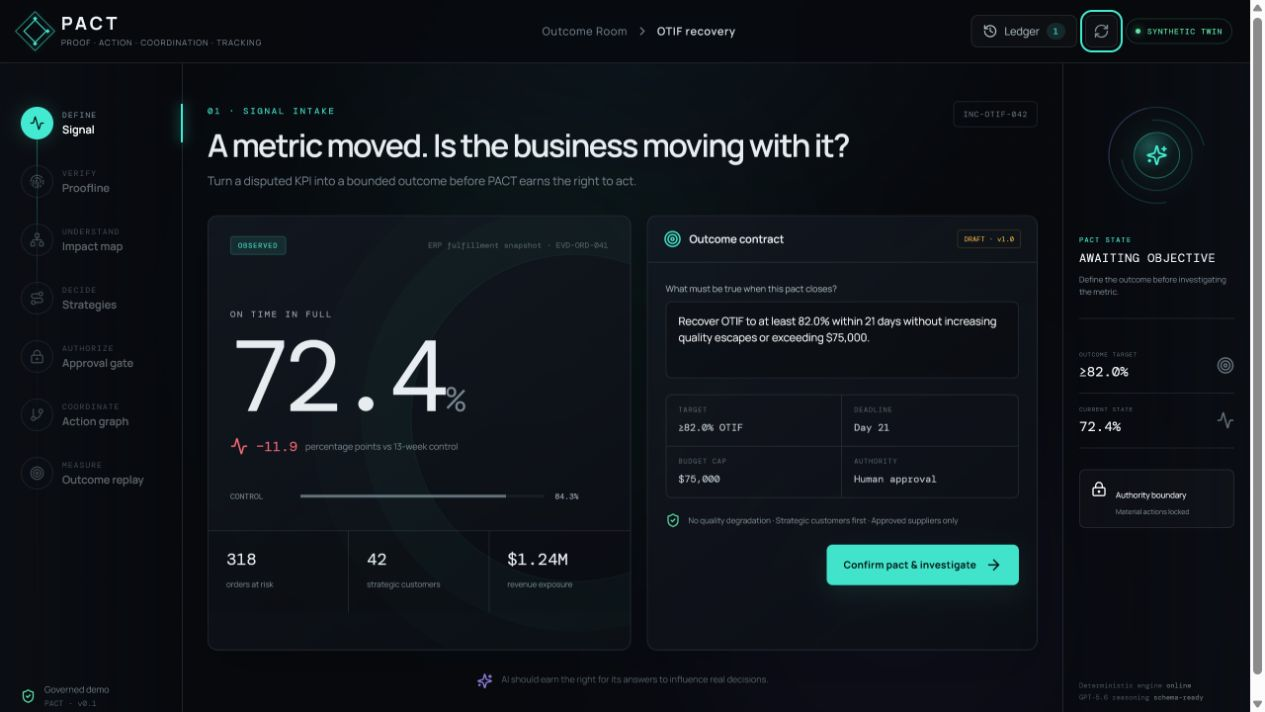
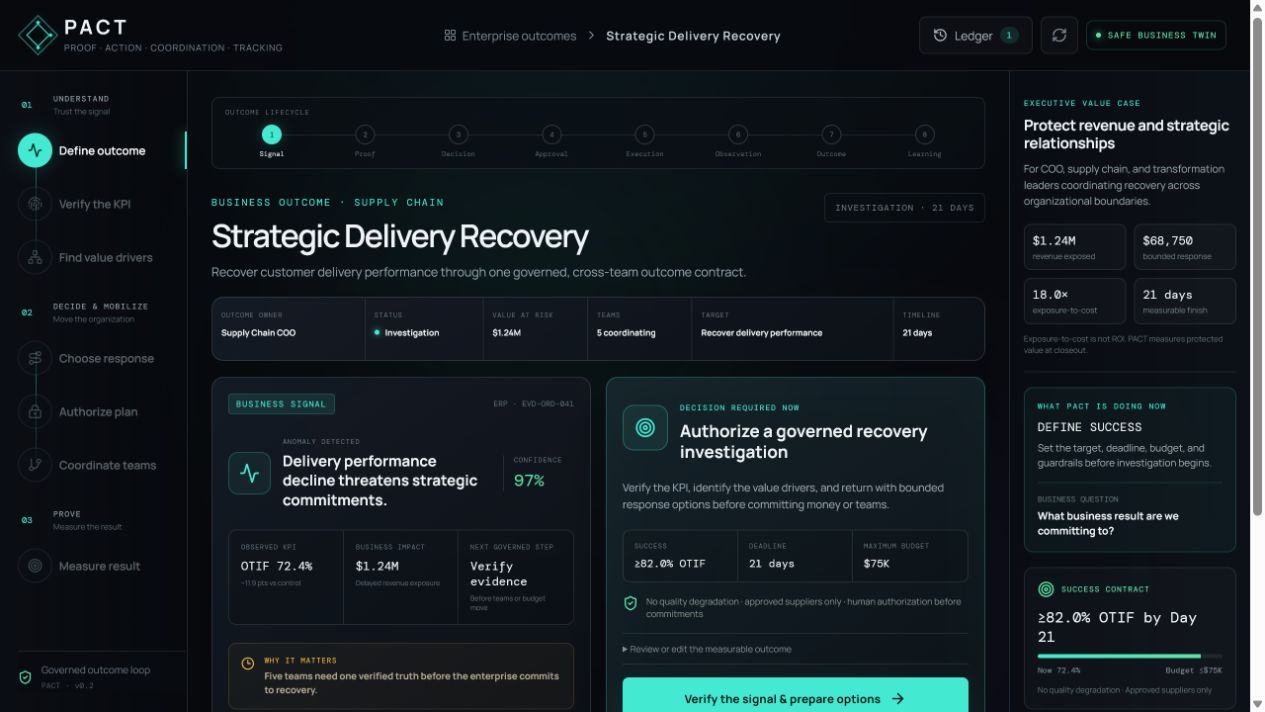
docs: lead gallery with enterprise mission control

diff --git a/submission-assets/README.md b/submission-assets/README.md
@@ -1,17 +1,18 @@
 # Submission image set
 
-These screenshots were captured from the verified local PACT build on July 17, 2026. They contain only the synthetic scenario and may be used in the Devpost gallery, repository, or demo-video edit.
+These screenshots were captured from the verified local PACT build on July 18, 2026. They contain only the synthetic portfolio and flagship scenario and may be used in the Devpost gallery, repository, or demo-video edit.
 
 The current set is verified deterministic product evidence, not GPT-5.6 provenance evidence. After the genuine GPT-5.6 artifact is generated and reviewed, recapture the final gallery with the visible response IDs and update `gallery-manifest.json` to `status: reviewed` with matching plan and audit response IDs. The release audit enforces this handoff.
 
 | File | Suggested caption | Judging story |
 |---|---|---|
-| `01-signal-contract.png` | Turn a disputed KPI into an explicit outcome contract before AI acts. | Real problem and coherent product entry point |
+| `00-enterprise-command-center.png` | Mission Control for measurable enterprise outcomes: value, teams, commitments, approvals, governance, and learning. | Platform breadth, executive value, and product category |
+| `01-signal-contract.png` | Enter one governed Outcome Room where business ownership leads and OTIF becomes supporting evidence. | Coherent portfolio-to-outcome architecture |
 | `02-proofline-verification.png` | Proofline independently reproduces 72.4% OTIF and passes four integrity controls. | Technical implementation and trust |
 | `03-strategy-sandbox.png` | Compare margin, speed, and resilience with every projection labeled simulated. | Product design and decision quality |
 | `04-approval-gate.png` | A separate Auditor challenges the cross-team plan; PACT stops for human authority. | Novel governance and complete experience |
 | `05-outcome-closeout.png` | Close the loop at 82.1% observed synthetic OTIF and preserve the projection variance. | Measurable impact and idea differentiation |
 
-Recommended Devpost order: Outcome Closeout first as the gallery cover, then Signal, Proofline, Strategy, and Approval. The cover demonstrates the product's central distinction immediately: PACT measures the outcome rather than ending at an AI recommendation.
+Recommended Devpost order: Enterprise Command Center first as the gallery cover, then Outcome Room, Outcome Closeout, Proofline, Strategy, and Approval. The cover establishes that PACT is a platform; closeout proves it does not end at an AI recommendation.
 
 Do not crop away semantic labels such as **SIMULATED**, **OBSERVED**, **SYNTHETIC TWIN**, or **HUMAN AUTHORITY**. They are part of the product's truthfulness and governance story.

diff --git a/README.md b/README.md
@@ -8,7 +8,7 @@
 
 </div>
 
-![PACT Outcome Room closing a governed recovery at 82.1% observed synthetic OTIF](submission-assets/screenshots/05-outcome-closeout.png)
+![PACT Enterprise Outcome Command Center showing the governed outcome portfolio](submission-assets/screenshots/00-enterprise-command-center.png)
 
 PACT is an Enterprise Outcome Command Center for COO, transformation, and functional leaders. Its opening control plane shows the outcomes that matter across the organization; each Outcome Room then governs the complete path from business signal to proof, decision, human approval, coordinated execution, measured result, and organizational learning.
 